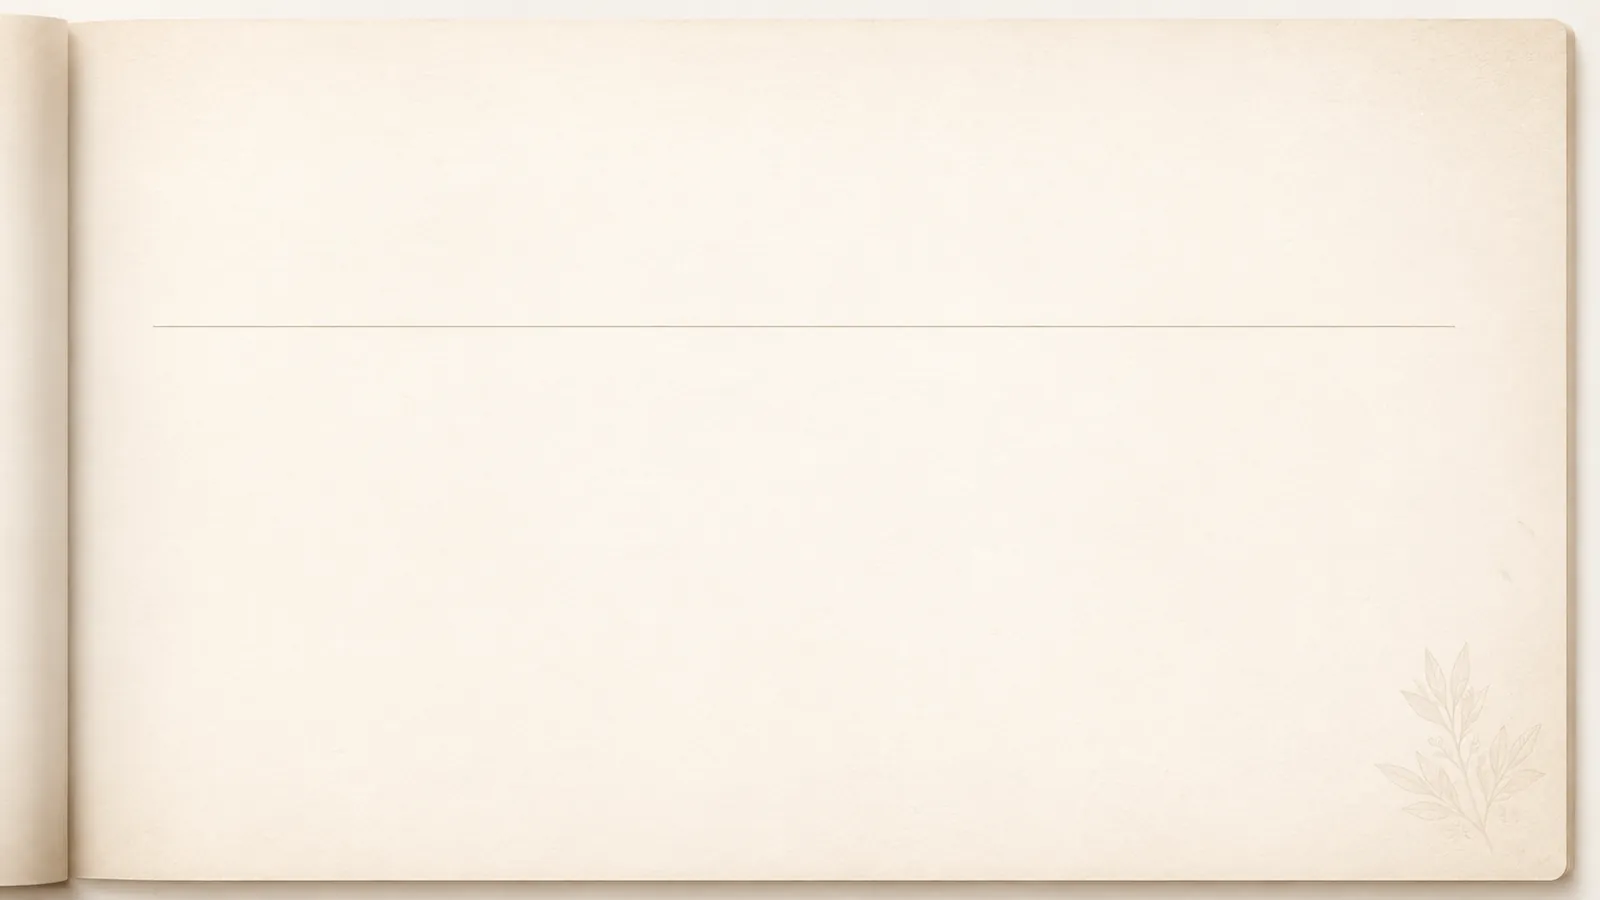
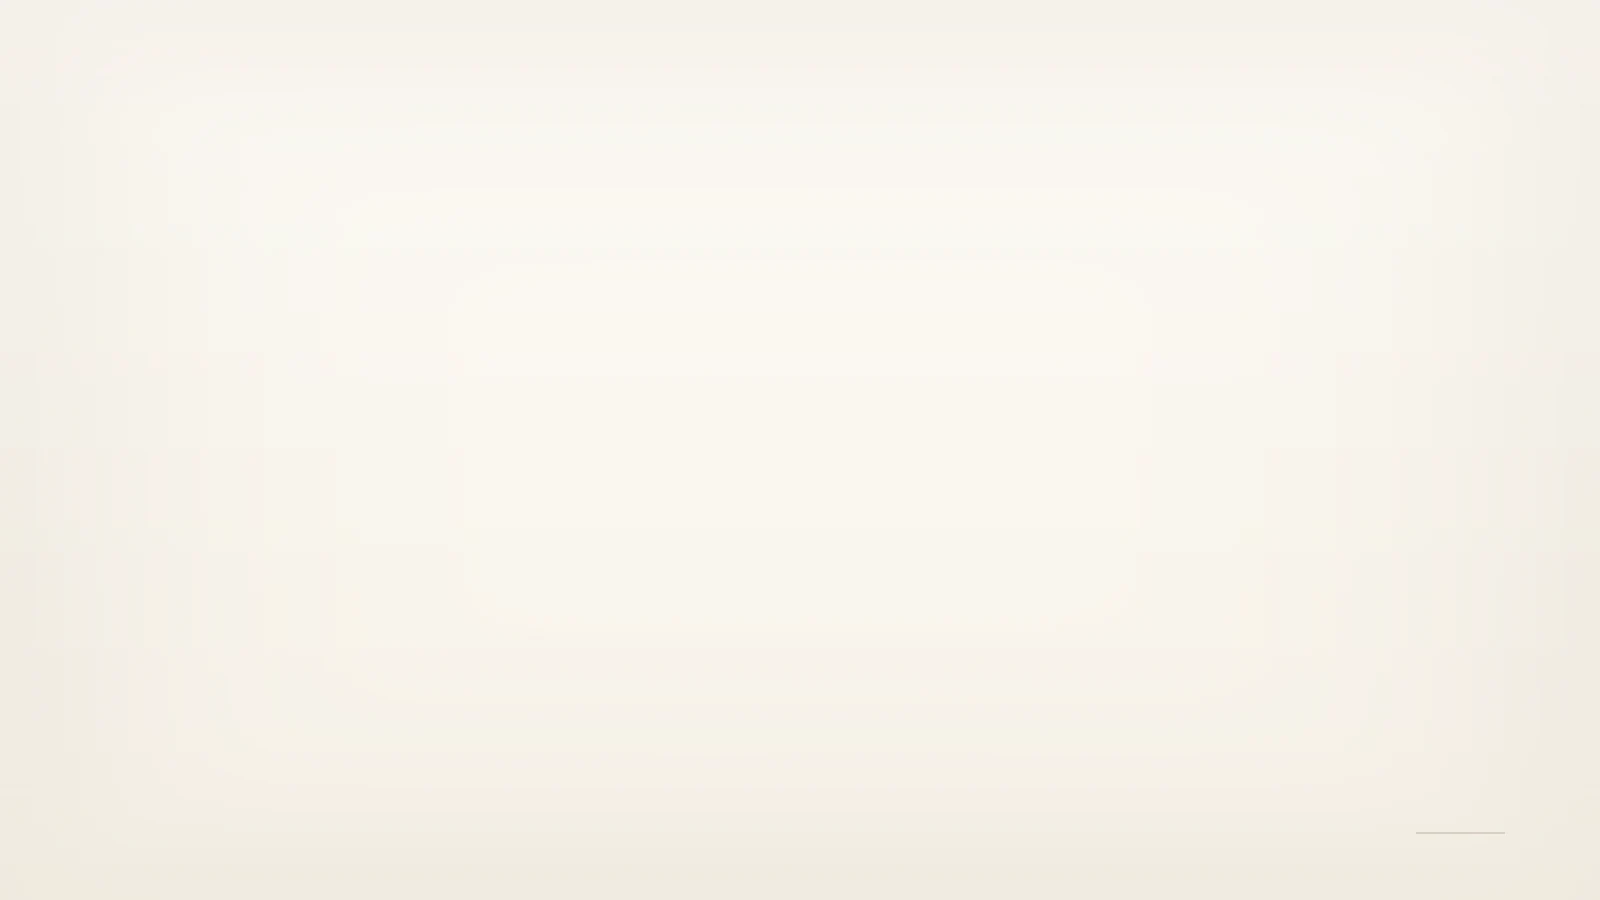
폰트 조합찾기 배경

Changed region(s): [[0.0, 0.0, 1.0, 1.0]]

diff --git a/static/font-pair.html b/static/font-pair.html
@@ -162,8 +162,16 @@
      변한다. 그래서 여백은 글 덩어리가 갖는다 — 아래 --pl/--pr/--pt/--pb.
 
      이제 1cqw = 캔버스 폭의 1% 라 값이 그대로 읽힌다.
-     글자 크기는 되도록 건드리지 않는다. 폰트를 보는 화면이라 글이 작아지면
-     목적을 잃는다. 폭이 모자라면 크기가 아니라 여백을 줄인다. */
+
+     ⚠ --b-title / --b-sub / --b-body 는 배경 사진을 넣기 전부터 쓰던 값
+     그대로다. 건드리지 않는다 — 폰트를 보는 화면이라 글 크기가 곧 내용이다.
+     배경을 피하는 일은 여백(--pl/--pr)이 한다. 크기를 줄여서 피하려다
+     "콩알만해졌다"는 말을, 여백을 늘리려다 "너무 커지고 줄이 갈라진다"는 말을
+     들었다. 아래 --pr 값은 짐작이 아니라 브라우저에서 실제로 재서 정했다 —
+     그 크기에서 제목·부제·본문이 몇 줄이 되고 어디까지 뻗는지 확인한 값이다.
+
+     세로 여백은 캔버스에 줘도 된다(container-type:inline-size 는 가로만 본다).
+     다만 여기서는 가로와 같이 두는 편이 읽기 쉬워 블록에 함께 실었다. */
   .fp-stage{background-size:cover;background-position:center;background-repeat:no-repeat}
   .fp-blk-title,.fp-blk-sub,.fp-blk-body{padding-left:var(--pl,7cqw);
                                          padding-right:var(--pr,7cqw)}
@@ -172,67 +180,82 @@
 
   /* 영상 · 자막 — 밤 사진, 인물이 오른쪽 62% 부터. 왼쪽 어둠에 제목을 앉힌다.
      자막 바는 아래 전체 폭 그대로 — 영상 자막이 원래 그 자리다.
-     제목 7자 × 8.4cqw = 59cqw / 글 폭 60cqw */
+     실측(캔버스 622px): 제목 3줄·오른끝 65%, 부제 1줄·72%, 자막 1줄.
+     제목이 3줄이 되는 것은 배경을 넣기 전에도 같았다 — 원래 크기가 그렇다. */
   .mk-thumb{background-image:url(/pair-bg/thumb.webp);background-color:#15161A;
             color:#F7F5F1;justify-content:center;text-align:left;
-            --pl:6cqw;--pr:34cqw;--pt:6cqw;--pb:0cqw;
-            --b-title:8.4cqw;--b-sub:4.2cqw;--b-body:2.66cqw}
+            --pl:6cqw;--pr:6cqw;--pt:6cqw;--pb:0cqw;
+            --b-title:11cqw;--b-sub:4.5cqw;--b-body:2.66cqw}
   .mk-thumb .fp-blk-title,.mk-thumb .fp-blk-sub{text-shadow:0 1px 14px rgba(0,0,0,.6)}
   .mk-thumb .fp-blk-body{position:absolute;left:0;right:0;bottom:0;
             background:rgba(0,0,0,.55);padding:2.4cqw 6cqw 2.8cqw;text-align:center}
   .mk-thumb #txtSub{margin-top:2.2cqw;opacity:.9}
+  /* 자막 바가 아래를 덮으므로 가운데 정렬 기준을 그만큼 위로 올린다 */
+  .mk-thumb .fp-blk-sub{padding-bottom:12cqw}
 
   /* SNS · 카드뉴스 — 살구빛 도형이 오른쪽 70% 부터. 왼쪽 위부터 쌓는다.
-     제목 8자 × 7.9cqw = 63cqw / 글 폭 64cqw */
+     실측: 제목 1줄·오른끝 58%, 본문 5줄·68%. 도형이 70%부터라 닿지 않는다. */
   .mk-card{background-image:url(/pair-bg/card.webp);background-color:#FAEBD9;
            color:#3B2E1E;justify-content:flex-start;
-           --pl:8cqw;--pr:28cqw;--pt:9cqw;--pb:7cqw;
-           --b-title:7.9cqw;--b-sub:4.5cqw;--b-body:2.85cqw}
+           --pl:7cqw;--pr:7cqw;--pt:7cqw;--pb:7cqw;
+           --b-title:8.36cqw;--b-sub:4.5cqw;--b-body:2.85cqw}
   .mk-card #txtSub{margin-top:2.8cqw}
   .mk-card .fp-blk-body{margin-top:4cqw}
 
   /* 브랜딩 · 로고 — 옅은 미색. 오른쪽 위 아치(75%~)와 왼쪽 아래 물결(아래 28%)
-     사이, 가운데 높이에 왼쪽으로 앉힌다. 제목 5자라 폭은 넉넉하다. */
+     사이, 가운데 높이에 왼쪽으로 앉힌다.
+     실측: 제목 44%, 부제 39%, 본문 69%. 아치가 75%부터라 여유가 있다. */
   .mk-namecard{background-image:url(/pair-bg/namecard.webp);background-color:#F6F4EF;
                color:#241F19;justify-content:center;
-               --pl:9cqw;--pr:28cqw;--pt:6cqw;--pb:6cqw;
+               --pl:7cqw;--pr:7cqw;--pt:7cqw;--pb:7cqw;
                --b-title:8.8cqw;--b-sub:4.25cqw;--b-body:2.66cqw}
   .mk-namecard #txtSub{margin-top:2.2cqw}
   .mk-namecard .fp-blk-body{margin-top:4cqw;opacity:.75}
 
   /* 포스터 · 안내 — 겨울 정원. 오른쪽 아래 식물과 왼쪽 위 나뭇가지를 피해
-     왼쪽 가운데 띠에. 제목 8자 × 8cqw = 64cqw / 글 폭 64cqw */
+     왼쪽 가운데 띠에. --pr 20 은 실측으로 고른 값 — 6 이면 본문이 90%까지
+     뻗어 오른쪽 식물에 얹히고, 26 부터는 부제가 두 줄로 갈라진다. 20 에서
+     본문 3줄·오른끝 76%. */
   .mk-poster{background-image:url(/pair-bg/poster.webp);background-color:#EAF0F6;
              color:#243444;justify-content:flex-start;
-             --pl:8cqw;--pr:28cqw;--pt:12cqw;--pb:8cqw;
-             --b-title:8cqw;--b-sub:4.25cqw;--b-body:2.66cqw}
+             --pl:8cqw;--pr:20cqw;--pt:10cqw;--pb:8cqw;
+             --b-title:8.36cqw;--b-sub:4.25cqw;--b-body:2.66cqw}
   .mk-poster #txtSub{margin-top:2cqw}
   .mk-poster .fp-blk-body{margin-top:2.4cqw}
 
   /* 감성 · 손글씨 — 찢어진 종이가 가운데(가로 8~78%). 종이 안쪽에만.
-     좌우 여백이 다른 것은 종이 가운데가 화면 가운데보다 왼쪽이라서다. */
+     좌우 여백이 다른 것은 종이 가운데가 화면 가운데보다 왼쪽이라서다.
+     --pr 22 도 실측 — 6 이면 본문이 88%까지 가서 종이 밖(78%)으로 나간다. */
   .mk-note{background-image:url(/pair-bg/note.webp);background-color:#EDE6D8;
            color:#3A3226;justify-content:center;text-align:center;
-           --pl:13cqw;--pr:24cqw;--pt:13cqw;--pb:13cqw;
+           --pl:13cqw;--pr:22cqw;--pt:10cqw;--pb:10cqw;
            --b-title:8.8cqw;--b-sub:4.38cqw;--b-body:2.76cqw}
   .mk-note #txtSub{margin-top:2.6cqw}
   .mk-note .fp-blk-body{margin-top:3.6cqw}
 
-  /* 본문 · 읽기 — 펼친 노트. 사진에 가로줄이 있다(위에서 36%).
-     그 줄을 조판선으로 쓴다 — 제목·부제는 줄 위, 본문은 줄 아래 2단.
-     본문을 절대 위치로 못 박는 이유: 제목이 한 줄 늘어나도 줄을 넘지 않게.
-     16:9 라 높이는 폭의 56.25% — 줄은 위에서 20.25cqw 다.
-     왼쪽 9cqw 는 제본(약 6%)을, 오른쪽·아래는 잎사귀 그림을 비켜 준 값.
-     제목 13자 × 6.5cqw = 84.5cqw / 글 폭 85cqw */
-  .mk-magazine{background-image:url(/pair-bg/magazine.webp);background-color:#FAF3E7;
+  /* 본문 · 읽기 — 종이를 코드로 그렸다(tools/make_pair_bg_magazine.py).
+     그 배경에는 선이 하나도 없다. 제목 아래 선과 단 사이 선을 CSS 가 긋기
+     때문이다 — 그래야 글이 한 줄 늘거나 줄어도 선이 글을 따라간다.
+     앞서 쓰던 사진에는 가로줄이 박혀 있었고, 거기 맞추려다 본문이 위로
+     끌려 올라갔다. 그 문제가 여기서 없어진다.
+
+     선을 .fp-blk-body 에 긋되 좌우를 padding 이 아니라 margin 으로 잡는다.
+     padding 이면 테두리가 칸 전체 폭으로 그어져 글줄보다 길게 삐져나온다.
+     margin 이면 테두리 상자 자체가 안으로 들어와 글 폭과 정확히 맞는다.
+
+     좌우 여백을 같게 둔 것은 제본 그림이 없어져서다. */
+  .mk-magazine{background-image:url(/pair-bg/magazine.webp);background-color:#FAF7F0;
                color:#2A241B;justify-content:flex-start;
-               --pl:9cqw;--pr:6cqw;--pt:4.5cqw;--pb:7cqw;
-               --b-title:6.5cqw;--b-sub:4cqw;--b-body:2.47cqw}
-  .mk-magazine #txtSub{margin-top:1.8cqw;opacity:.75}
-  .mk-magazine #txtBody{line-height:1.6}
-  .mk-magazine .fp-blk-body{position:absolute;left:9cqw;right:6cqw;
-               top:22cqw;bottom:7cqw;padding:0;
-               column-count:2;column-gap:3cqw}
+               --pl:9cqw;--pr:9cqw;--pt:7cqw;--pb:8cqw;
+               --b-title:7.7cqw;--b-sub:4.25cqw;--b-body:2.47cqw}
+  .mk-magazine #txtSub{margin-top:2.2cqw;opacity:.72}
+  .mk-magazine #txtBody{line-height:1.7}
+  .mk-magazine .fp-blk-body{padding-left:0;padding-right:0;
+               margin:3.4cqw var(--pr) 0 var(--pl);
+               padding-top:2.2cqw;
+               border-top:1px solid color-mix(in srgb,currentColor 22%,transparent);
+               column-count:2;column-gap:3.2cqw;
+               column-rule:1px solid color-mix(in srgb,currentColor 12%,transparent)}
 
   /* ── 오른쪽 칸: 슬롯 3개 + 쓰는 법 ─────────────────────
      캔버스 옆에 세로로 세운다. 아래에 두면 스크롤을 내려야 폰트 이름이
@@ -297,9 +320,8 @@
     .mk-thumb{--pr:8cqw}
     .mk-card,.mk-namecard,.mk-poster{--pr:9cqw}
     .mk-note{--pl:12cqw;--pr:12cqw}
-    /* 세로로 길어지면 사진의 가로줄 위치도 어긋난다. 본문을 흐름에 되돌린다. */
-    .mk-magazine .fp-blk-body{position:static;margin-top:4cqw;column-count:1;
-      padding-left:var(--pl);padding-right:var(--pr);padding-bottom:var(--pb)}
+    /* 좁은 화면에서는 2단이 너무 좁아진다. 한 단으로 편다. */
+    .mk-magazine .fp-blk-body{column-count:1}
     /* 데스크톱은 16:9 비율이라 justify-content:flex-start(위 붙임)로 놓아도
        박스 자체가 낮아서 자연스럽다. 모바일은 그 비율을 버리고 최소높이
        340px만 남기는데, 폭이 좁아지면서 박스가 훨씬 세로로 길어져 글이

diff --git a/tools/make_pair_bg_magazine.py b/tools/make_pair_bg_magazine.py
@@ -1,0 +1,111 @@
+"""'본문 · 읽기' 자리의 배경을 코드로 그린다 (static/pair-bg/magazine.webp).
+
+다른 다섯 자리는 사진을 받아 쓰지만 이 자리만 직접 그린다. 이유가 있다.
+
+왜 선을 그림에 넣지 않나
+----------------------
+앞서 쓰던 사진에는 가로줄이 그어져 있었고, 글을 그 줄에 맞추려다 본문이
+위로 끌려 올라갔다. 그림에 박힌 선은 글이 한 줄만 늘어나도 어긋난다.
+그래서 이 배경에는 선을 하나도 넣지 않는다. 단 나누는 선도, 제목 아래
+선도 전부 CSS 가 긋는다 — 그러면 선이 글을 따라간다.
+
+여기서 그리는 것은 '종이'뿐이다
+---------------------------
+읽는 자리라 바탕이 조용해야 한다. 무늬가 있으면 그게 곧 본문 위의 잡음이
+된다. 그래서 담는 것은 네 가지뿐이다.
+  1. 미색 종이 바탕 — 위가 조금 밝고 아래로 갈수록 아주 조금 따뜻해진다
+  2. 아주 고운 결 — 균일한 색면은 화면에서 '빈 칸'으로 보인다
+  3. 바깥으로 갈수록 살짝 어두워지는 그늘 — 종이 한 장이 놓인 느낌
+  4. 오른쪽 아래 아주 옅은 쪽번호 자리 — 매거진 지면의 표시
+
+    python tools/make_pair_bg_magazine.py
+"""
+import io
+import math
+import sys
+from pathlib import Path
+
+from PIL import Image, ImageChops, ImageDraw, ImageFilter
+
+ROOT = Path(__file__).resolve().parent.parent
+OUT = ROOT / "static" / "pair-bg" / "magazine.webp"
+
+W, H = 1600, 900
+TOP = (253, 251, 246)      # 위쪽 종이색
+BOTTOM = (247, 242, 233)   # 아래쪽 — 아주 조금 따뜻하게
+
+
+def paper() -> Image.Image:
+    """위아래로 아주 옅게 변하는 종이 바탕."""
+    g = Image.new("RGB", (1, H))
+    px = g.load()
+    for y in range(H):
+        t = y / (H - 1)
+        px[0, y] = tuple(round(TOP[i] + (BOTTOM[i] - TOP[i]) * t) for i in range(3))
+    return g.resize((W, H), Image.BILINEAR)
+
+
+def grain(im: Image.Image, sigma: float = 11.0, amount: float = 0.085) -> Image.Image:
+    """고운 결. 균일한 색면은 화면에서 '덜 그려진 칸'처럼 보인다.
+
+    세게 넣으면 본문 글자와 싸우므로 아주 옅게만 얹는다.
+    """
+    n = Image.effect_noise((W, H), sigma).convert("L")
+    n = n.filter(ImageFilter.GaussianBlur(0.4))
+    return Image.blend(im, ImageChops.overlay(im, n.convert("RGB")), amount)
+
+
+def vignette(im: Image.Image, strength: float = 0.16) -> Image.Image:
+    """가장자리만 아주 살짝 어두워진다 — 종이 한 장이 놓인 느낌.
+
+    가운데는 건드리지 않는다. 글이 앉는 자리라 밝기가 고르게 남아야 한다.
+
+    동심 타원을 겹쳐 그리는 방법을 먼저 썼는데 고리 무늬가 생겨 얼룩처럼
+    보였다. 그래서 낮은 해상도에서 픽셀마다 값을 계산하고 키운다 —
+    계단이 안 생기고 빠르다.
+    """
+    sw, sh = 160, 90
+    m = Image.new("L", (sw, sh))
+    px = m.load()
+    for y in range(sh):
+        # 가로 방향으로 더 넓게 퍼뜨린다(16:9 라 세로가 먼저 어두워지는 것을 막는다)
+        dy = abs(y / (sh - 1) * 2 - 1)
+        for x in range(sw):
+            dx = abs(x / (sw - 1) * 2 - 1)
+            t = max(dx, dy)                 # 사각형에 가까운 감쇠
+            # 문턱값(t<0.72 는 0)을 두면 그 자리에 옅은 테두리가 드러난다.
+            # 실제로 보였다. 가운데부터 끝까지 끊기지 않는 곡선으로 바꾼다.
+            v = t ** 3.6
+            px[x, y] = 255 - round(255 * min(1.0, v))
+    m = m.resize((W, H), Image.BICUBIC).filter(ImageFilter.GaussianBlur(40))
+    dark = Image.new("RGB", (W, H), (198, 187, 168))
+    return Image.composite(im, Image.blend(im, dark, strength), m)
+
+
+def folio(im: Image.Image) -> Image.Image:
+    """오른쪽 아래 쪽번호 자리 — 짧은 선 하나. 글자는 넣지 않는다.
+
+    숫자를 넣으면 '몇 쪽'인지가 거짓말이 되고, 조합을 새로 뽑을 때마다
+    같은 숫자가 남아 어색하다. 지면에 있던 흔적만 남긴다.
+    """
+    d = ImageDraw.Draw(im, "RGBA")
+    x1, x2 = round(W * 0.885), round(W * 0.94)
+    y = round(H * 0.925)
+    d.line([x1, y, x2, y], fill=(150, 136, 114, 70), width=2)
+    return im
+
+
+def main():
+    im = paper()
+    im = grain(im)
+    im = vignette(im)
+    im = folio(im)
+    OUT.parent.mkdir(parents=True, exist_ok=True)
+    im.save(OUT, "WEBP", quality=88, method=6)
+    print("  %s  %dx%d  %.0f KB" % (OUT, W, H, OUT.stat().st_size / 1024))
+    print("  선은 그리지 않았다 — 제목 아래 선과 단 사이 선은 CSS 가 긋는다.")
+
+
+if __name__ == "__main__":
+    sys.stdout = io.TextIOWrapper(sys.stdout.buffer, encoding="utf-8", errors="replace")
+    main()
